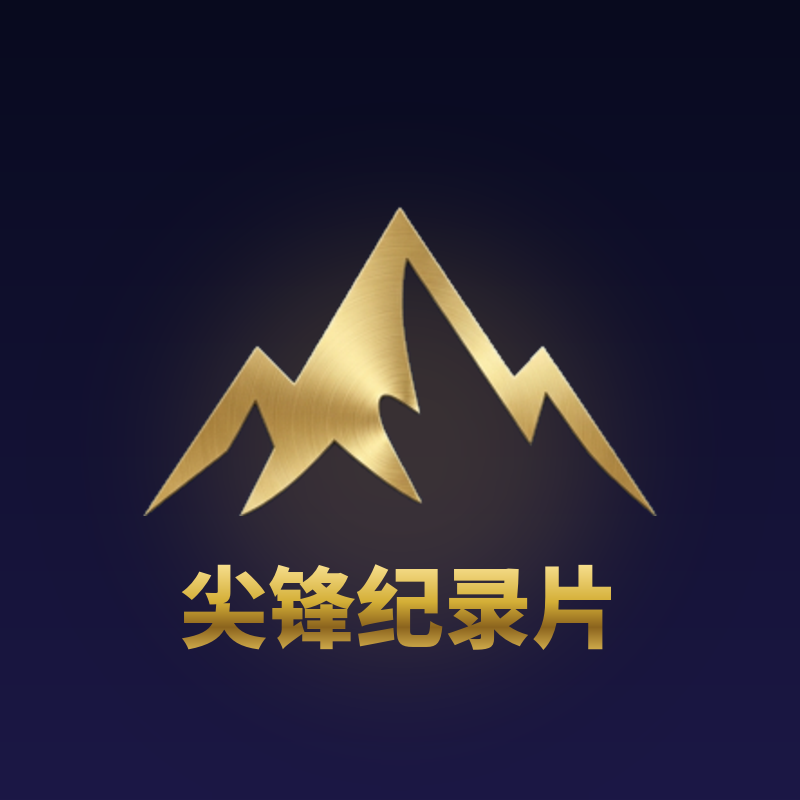
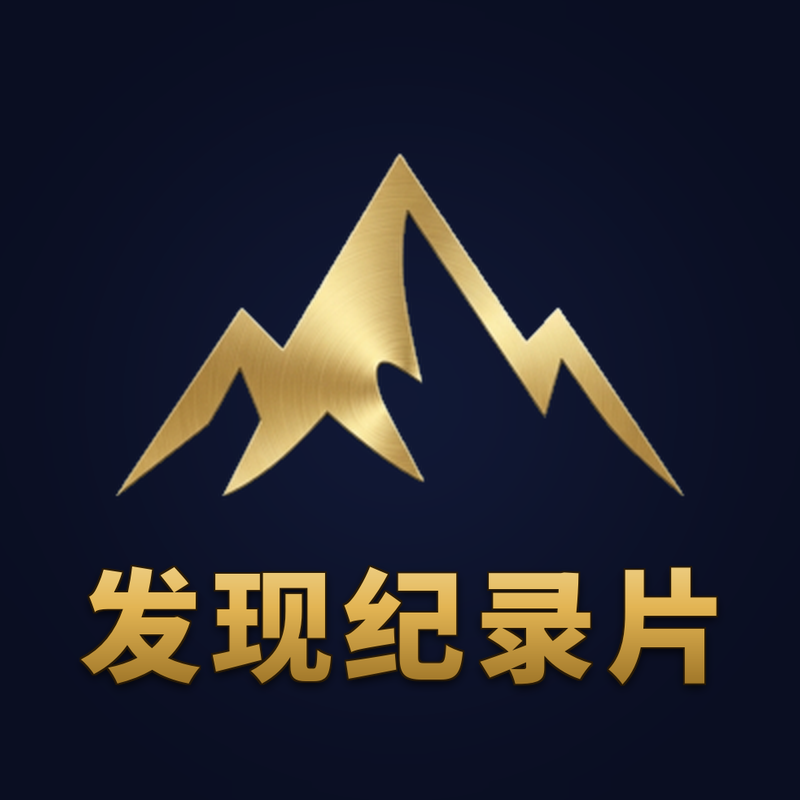
rebrand(zh): 中文频道 尖锋纪录片→发现纪录片(用户定)——台标/头像/d8提示/banner全线更新
金山图形保留,只换金字(rebrand_zh.py 重渲);watermark_tr.png+avatar_zh.png
重做;d8 SYSTEM提示+make_banner 文案同步。旧文件留 .png.bak。以后新片自动用
新台标(用户:以后用新台标),已发布片不追溯重制。

diff --git a/scripts/rebrand_zh.py b/scripts/rebrand_zh.py
@@ -1,0 +1,88 @@
+"""中文频道改名重做台标(2026-07-05 用户定:尖锋纪录片→发现纪录片)。
+
+保留原金山图形(watermark_tr.png 顶部 y0-178 已是干净透明金山),只替换下方
+金字。复用 make_banner.gold_text_layer 的金属渐变字。产出:
+  - assets/watermark_tr.png  透明台标(正片烧角标 + 缩略图水印共用)
+  - assets/avatar_zh.png     800x800 深色底头像
+旧文件先备份 .bak。用法:python scripts/rebrand_zh.py "发现纪录片"
+"""
+from __future__ import annotations
+
+import sys
+from pathlib import Path
+
+from PIL import Image, ImageDraw, ImageFilter
+
+sys.path.insert(0, str(Path(__file__).resolve().parent))
+from make_banner import gold_text_layer  # noqa: E402  金属金渐变字
+
+ASSETS = Path(__file__).resolve().parents[1] / "assets"
+NAME = sys.argv[1] if len(sys.argv) > 1 else "发现纪录片"
+
+
+def build_watermark(name: str) -> Image.Image:
+    """透明台标:原金山(顶部)+ 新金字(底部)。尺寸沿用 308x249。"""
+    old = Image.open(ASSETS / "watermark_tr.png").convert("RGBA")
+    W, H = old.size
+    mountain = old.crop((0, 0, W, 180))              # 山峰区(实测 y2-173,留余量到180)
+    txt = gold_text_layer([(name, 78, 6)], str(_font()))
+    tw = min(txt.width, W - 8)
+    txt = txt.resize((tw, int(txt.height * tw / txt.width)), Image.LANCZOS)
+
+    out = Image.new("RGBA", (W, H), (0, 0, 0, 0))
+    out.alpha_composite(mountain, (0, 0))
+    ty = 178 + (H - 178 - txt.height) // 2
+    out.alpha_composite(txt, ((W - txt.width) // 2, max(ty, 176)))
+    return out
+
+
+def build_avatar(name: str) -> Image.Image:
+    """800x800 头像:深蓝径向渐变底 + 金山 + 金字(沿用旧头像视觉)。"""
+    S = 800
+    img = Image.new("RGBA", (S, S), (10, 14, 34, 255))
+    vig = Image.new("L", (S, S), 0)
+    d = ImageDraw.Draw(vig)
+    for r in range(S // 2, 0, -6):
+        d.ellipse([S//2 - r, S//2 - r, S//2 + r, S//2 + r],
+                  fill=int(70 * (1 - r / (S // 2))))
+    glow = Image.new("RGBA", (S, S), (40, 60, 120, 0))
+    glow.putalpha(vig.filter(ImageFilter.GaussianBlur(60)))
+    img = Image.alpha_composite(img, glow)
+
+    wm = Image.open(ASSETS / "watermark_tr.png").convert("RGBA")
+    mtn = wm.crop((0, 0, wm.width, 180))
+    mh = 360
+    mw = int(mtn.width * mh / mtn.height)
+    mtn = mtn.resize((mw, mh), Image.LANCZOS)
+    img.alpha_composite(mtn, ((S - mw) // 2, 150))
+
+    txt = gold_text_layer([(name, 150, 12)], str(_font()))
+    tw = min(txt.width, int(S * 0.82))
+    txt = txt.resize((tw, int(txt.height * tw / txt.width)), Image.LANCZOS)
+    img.alpha_composite(txt, ((S - txt.width) // 2, 560))
+    return img
+
+
+def _font() -> Path:
+    for c in ("/usr/share/fonts/opentype/noto/NotoSansCJK-Black.ttc",
+              "/usr/share/fonts/truetype/noto/NotoSansCJK-Black.ttc"):
+        if Path(c).exists():
+            return Path(c)
+    return Path("/usr/share/fonts/opentype/noto/NotoSansCJK-Black.ttc")
+
+
+def main() -> None:
+    # 先构建(读旧金山),再备份旧文件,最后落新——顺序颠倒会把源文件删掉
+    new_wm = build_watermark(NAME)
+    new_av = build_avatar(NAME)
+    for f in ("watermark_tr.png", "avatar_zh.png"):
+        p = ASSETS / f
+        if p.exists():
+            p.replace(p.with_suffix(".png.bak"))
+    new_wm.save(ASSETS / "watermark_tr.png")
+    new_av.save(ASSETS / "avatar_zh.png")
+    print(f"台标/头像已重做为「{NAME}」")
+
+
+if __name__ == "__main__":
+    main()

diff --git a/src/stages/d8_meta.py b/src/stages/d8_meta.py
@@ -48,7 +48,7 @@ _LICENSE_LABELS = {
 }
 
 SYSTEM = (
-    "你是「尖锋纪录片」的 YouTube 运营。频道把公有领域英文纪录片翻译配音成"
+    "你是「发现纪录片」的 YouTube 运营。频道把公有领域英文纪录片翻译配音成"
     "中文重新发布。为给定的中文配音脚本写吸引点击的元数据。"
     "只输出一个 JSON 对象，不要额外文字、不要 markdown 代码块。"
 )

diff --git a/scripts/make_banner.py b/scripts/make_banner.py
@@ -116,7 +116,7 @@ def compose(bg_path: str, brand: str, out_path: str, font_path: str) -> None:
     mountain = extract_mountain("assets/avatar_zh.png")
 
     if brand == "zh":
-        m_h, text = 195, [("尖锋纪录片", 128, 14)]
+        m_h, text = 195, [("发现纪录片", 128, 14)]
     else:
         m_h, text = 185, [("SUMMIT", 118, 26), ("DOCUMENTARIES", 46, 22)]
     m_w = int(mountain.width * m_h / mountain.height)
